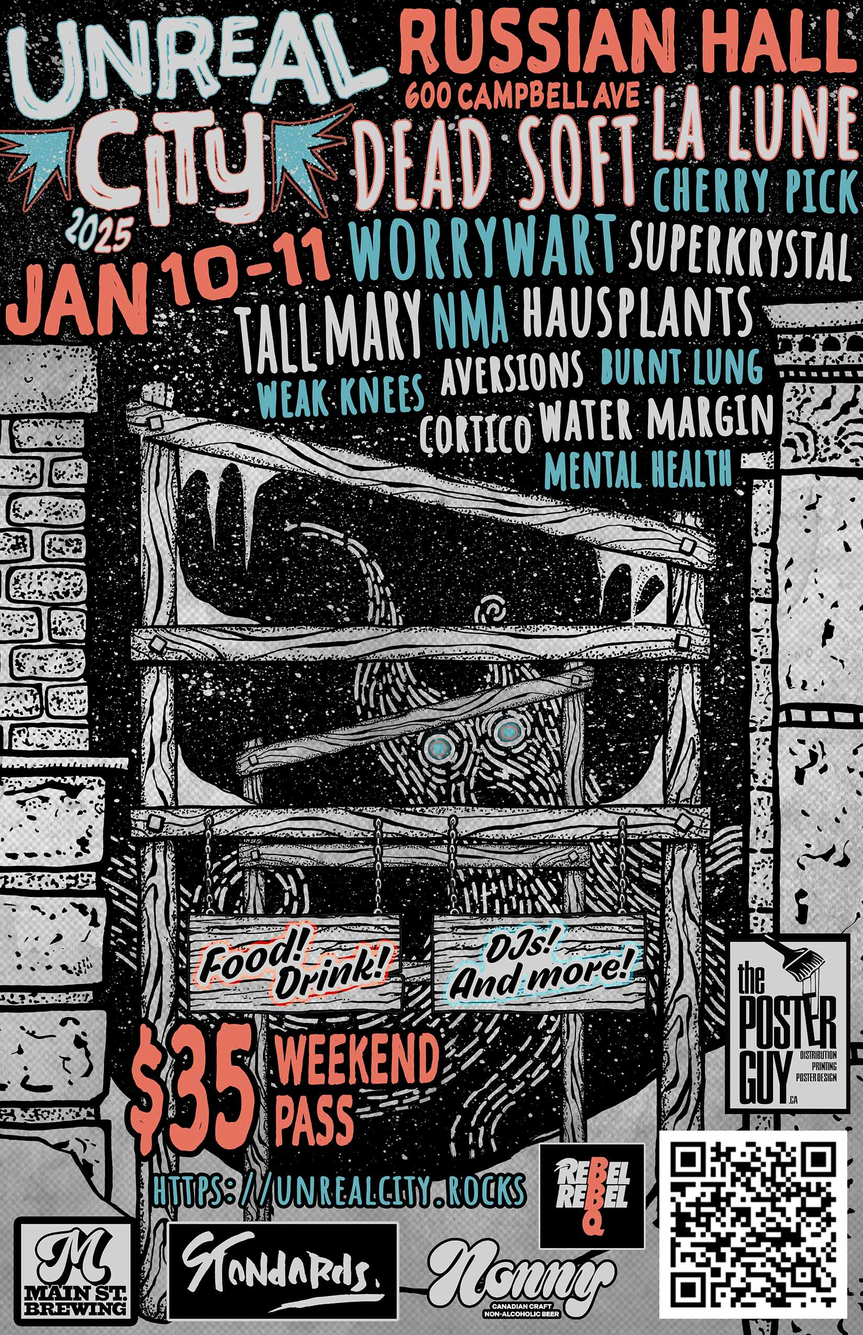
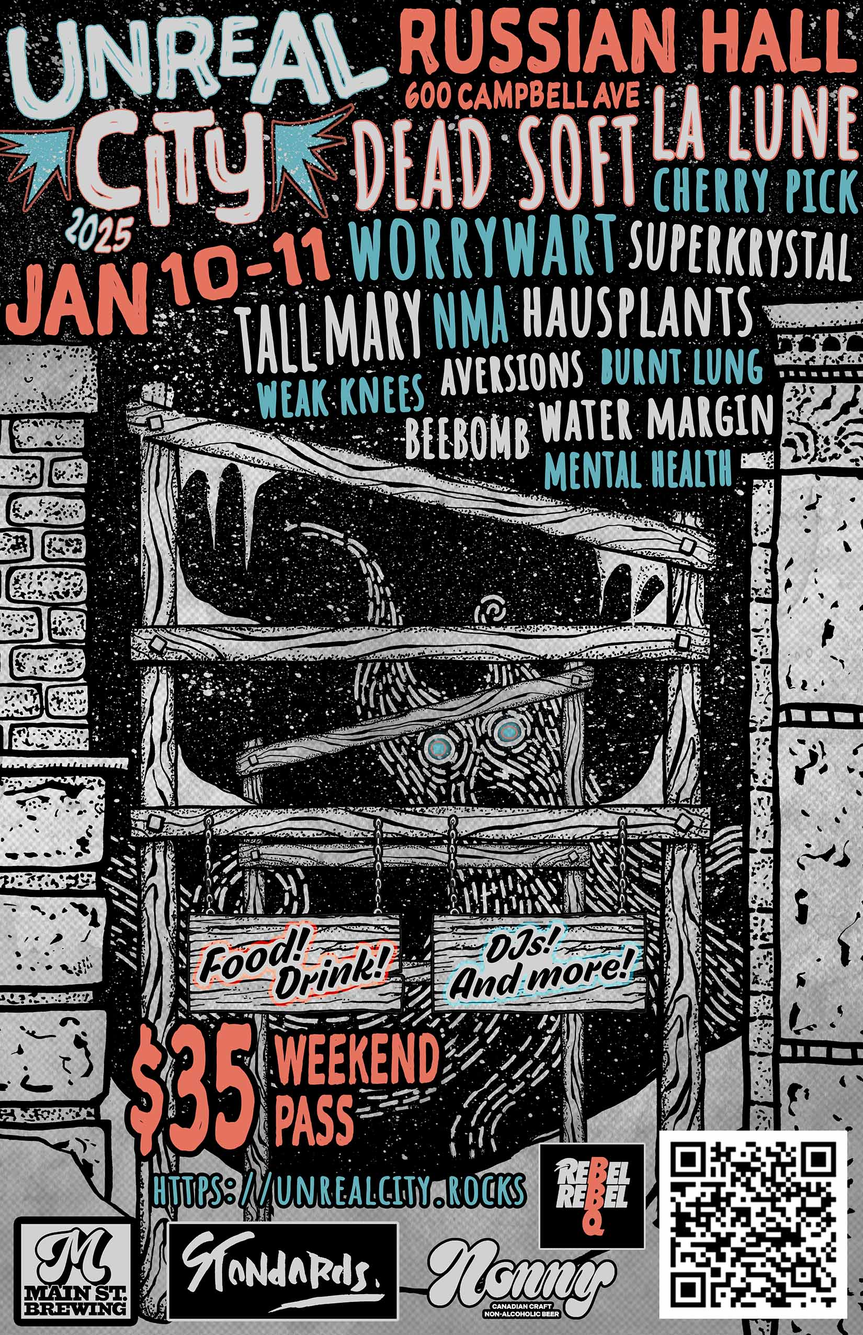
Update poster, BEEBOMB members.

Changed region(s): [[0.8345, 0.6816, 0.9891, 0.8365], [0.4636, 0.3098, 0.6182, 0.3408]]

diff --git a/_bands/beebomb.md b/_bands/beebomb.md
@@ -1,7 +1,7 @@
 ---
 name: BEEBOMB
 layout: band
-members: ["Devalin Galloway + 2"]
+members: ["Devalin Galloway (drums), Rachel Cabot (synths, vocals), Rhi Mcgrath (guitar, vocals)"]
 genres: ["twee","powerpop"]
 ffo: ["Camera Obscura","The Pains of Being Pure at Heart","Teenage Fanclub"]
 img: beebomb
